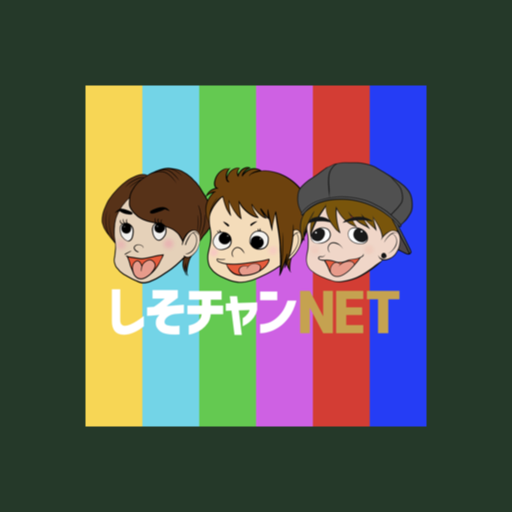
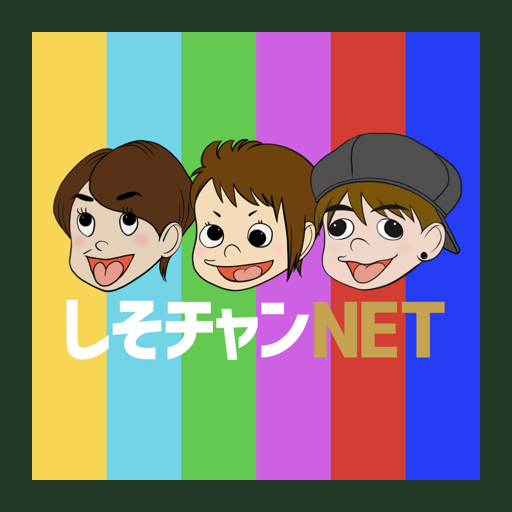
v2.81: 丸アイコンの寸法を実測で修正
Androidのホーム画面でアイコンが四角いまま、起動画面で四隅が切れる
不具合を修正。原因は maskable アイコンに余白を付けていたこと。

Chromeが生成したWebAPKからアイコンを取り出して実測したところ、
Chromeは入力画像を1.3125倍のキャンバス中央に置くため、
「入力画像の中央87.5%」だけが表示されると判明。
余白を付けると二重に縮小され、丸の中で絵が小さくなっていた。

→ 512キャンバスに448px（87.5%）で配置し直した。
   丸の直径と絵の幅が一致し、文字が欠けずに縁まで表示される。
   エミュレータでホーム画面・起動画面ともに確認済み。

diff --git a/lab.html b/lab.html
@@ -16,7 +16,7 @@
 <link rel="icon" type="image/png" sizes="192x192" href="icon-192.png?v=132">
 <!-- Android(Chrome)はapple-*のmetaを見ない。ホーム画面に追加した時にアドレスバーを消して
      アプリとして開くにはmanifestが要る（iOSは従来どおり上のmetaで動く） -->
-<link rel="manifest" href="manifest-lab.json?v=280">
+<link rel="manifest" href="manifest-lab.json?v=281">
 <meta name="apple-mobile-web-app-status-bar-style" content="black-translucent">
 <meta name="apple-mobile-web-app-title" content="しそチャンNET">
 <style>
@@ -1439,7 +1439,7 @@ html.tvpc #settings-panel .set-link{
 <div id="power-screen">
   <div style="display:flex;flex-direction:column;align-items:center;gap:0;">
     <div class="ps-logo-main">しそチャン<em>NET</em></div>
-    <div class="ps-version">version 2.80-lab（アイコンを新デザインに更新）</div>
+    <div class="ps-version">version 2.81-lab（丸アイコンの寸法を実測で修正）</div>
     <div class="ps-test-badge">試験放送中</div>
   </div>
   <div style="height:18px"></div>

diff --git a/index.html b/index.html
@@ -15,7 +15,7 @@
 <link rel="icon" type="image/png" sizes="192x192" href="icon-192.png?v=245">
 <!-- Android(Chrome)はapple-*のmetaを見ない。ホーム画面に追加した時にアドレスバーを消して
      アプリとして開くにはmanifestが要る（iOSは従来どおり上のmetaで動く） -->
-<link rel="manifest" href="manifest.json?v=280">
+<link rel="manifest" href="manifest.json?v=281">
 <meta name="apple-mobile-web-app-status-bar-style" content="black-translucent">
 <meta name="apple-mobile-web-app-title" content="しそチャンNET">
 <style>
@@ -1438,7 +1438,7 @@ html.tvpc #settings-panel .set-link{
 <div id="power-screen">
   <div style="display:flex;flex-direction:column;align-items:center;gap:0;">
     <div class="ps-logo-main">しそチャン<em>NET</em></div>
-    <div class="ps-version">version 2.80</div>
+    <div class="ps-version">version 2.81</div>
     <div class="ps-test-badge">試験放送中</div>
   </div>
   <div style="height:18px"></div>
